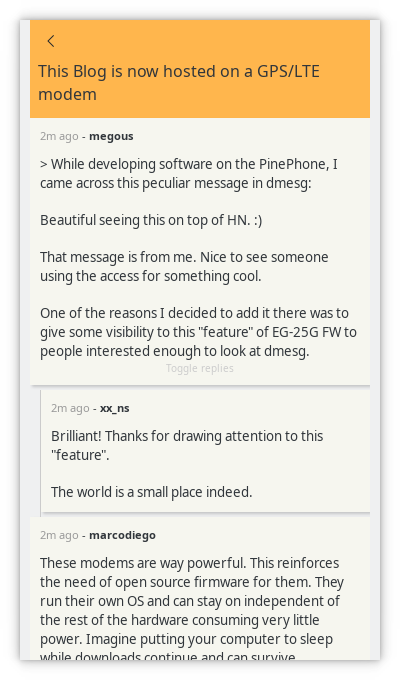
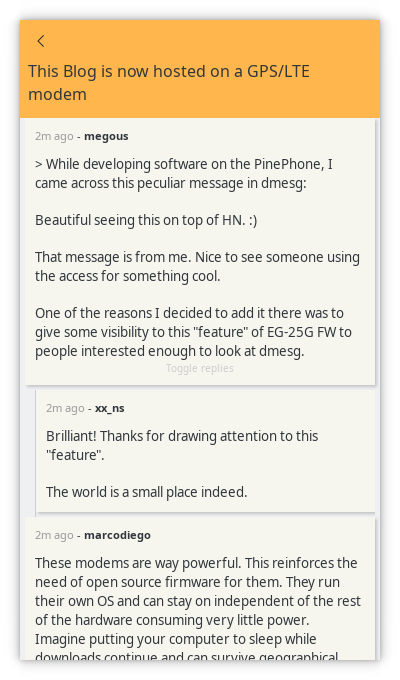
minor layout changes for threads

diff --git a/src/hn/css/style.css b/src/hn/css/style.css
@@ -35,8 +35,8 @@
 }
 
 .thread-comments {
-	padding-left: 10px;
-	padding-right: 10px;
+	padding-left: 5px;
+	padding-right: 5px;
 }
 .thread-header {
 	background-color: #ffb64d;

diff --git a/src/hn/hn.py b/src/hn/hn.py
@@ -128,6 +128,7 @@ class NewsList(Gtk.Grid):
 class ThreadHeader(Gtk.Grid):
     def __init__(self, *args, **kwds):
         super().__init__(*args, **kwds)
+        self.set_vexpand(False)
         self.get_style_context().add_class('thread-header')
 
         self.title = Gtk.Label(label='...')
@@ -160,7 +161,6 @@ class CommentThread(Gtk.Grid):
         super().__init__(*args, **kwds)
 
         scrolled_window = Gtk.ScrolledWindow()
-        scrolled_window.get_style_context().add_class('thread-comments')
         scrolled_window.set_policy(Gtk.PolicyType.NEVER, Gtk.PolicyType.AUTOMATIC)
 
         self.add(scrolled_window)
@@ -168,10 +168,12 @@ class CommentThread(Gtk.Grid):
         self.header = ThreadHeader()
         self.header.set_hexpand(True)
         self.comments_container = Gtk.VBox()
-        self.comments_container.set_homogeneous(False)
+        self.comments_container.set_vexpand(True)
+        self.comments_container.get_style_context().add_class('thread-comments')
         header_comments_vbox = Gtk.VBox()
-        header_comments_vbox.add(self.header)
-        header_comments_vbox.add(self.comments_container)
+        header_comments_vbox.pack_start(self.header, 0, 0, 0)
+        header_comments_vbox.pack_start(self.comments_container, 1, 1, 0)
+        # Allow comments_container to grow and take all space
 
         scrolled_window.add(header_comments_vbox)
         self.show_all()
@@ -255,6 +257,7 @@ class CommentItem(Gtk.VBox):
     def __init__(self, _item_id, *args, **kwds):
         super().__init__(*args, **kwds)
 
+        self.set_vexpand(False)
         self.comment_body = Gtk.Grid()
 
         self.comment_body.get_style_context().add_class('comment-item')
